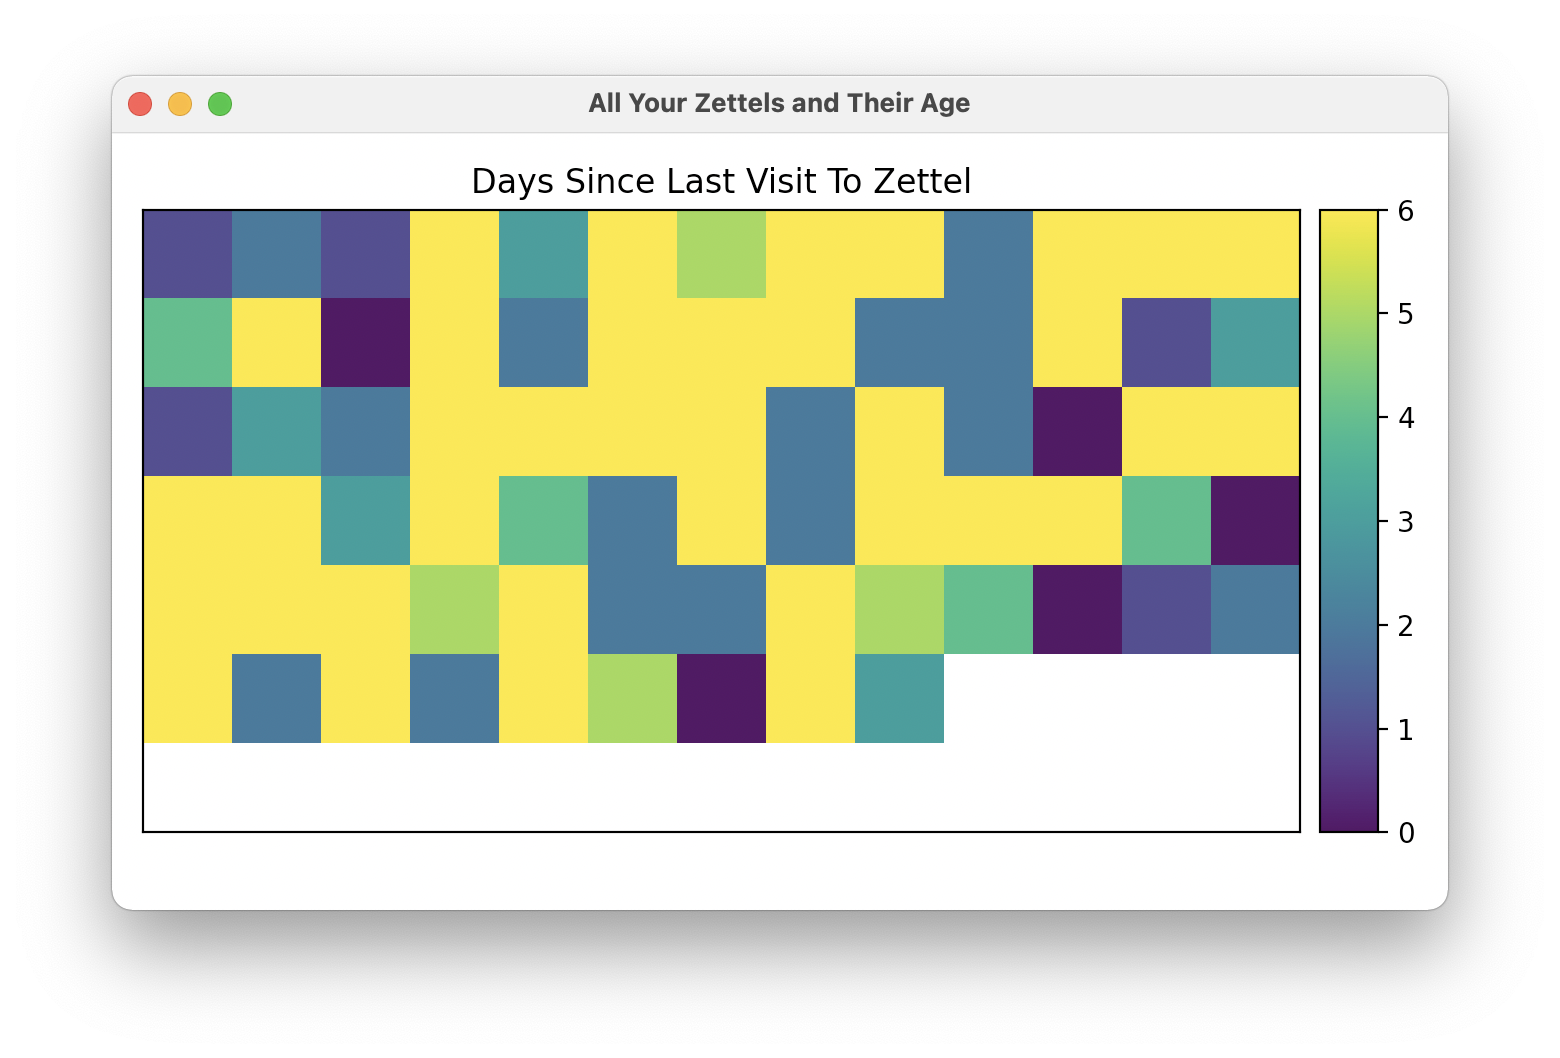
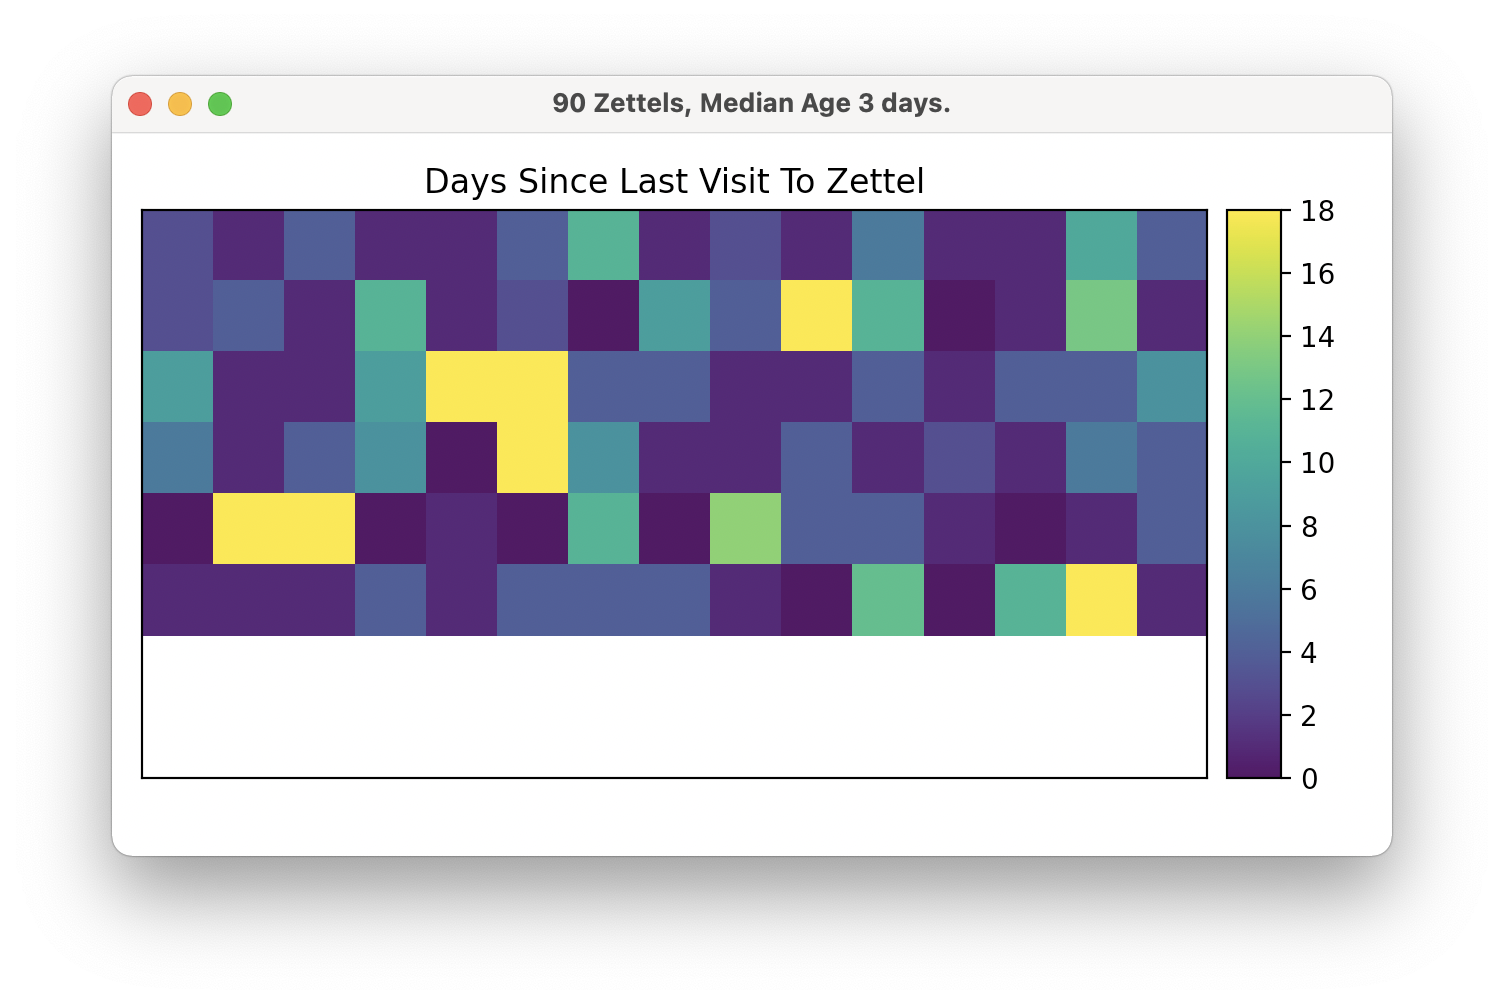
Fix bug with too few zettels, add meaningful plot title, update screenshot

diff --git a/zettelwarmer.py b/zettelwarmer.py
@@ -34,7 +34,9 @@ def plot_age_heatmap(ages_mins):
     )
     padded_ages_days = np.round(padded_ages_mins / (60 * 24))
 
-    fig, ax = plt.subplots(num="All Your Zettels and Their Age")
+    fig, ax = plt.subplots(
+        num=f"{len(ages_mins)} Zettels, Median Age {np.median(ages_mins/(60*24)):.0f} days."
+    )
     ax.tick_params(left=False, bottom=False, labelbottom=False, labelleft=False)
     ax.set_title("Days Since Last Visit To Zettel")
 
@@ -97,6 +99,9 @@ def main(
         for zett in zettels
         if os.path.isfile(zett) and get_file_suffix(zett) in suffixes
     ]
+
+    if numzettels > len(zettels):
+        numzettels = len(zettels)
 
     if not os.path.isfile(picklename):
         print(
